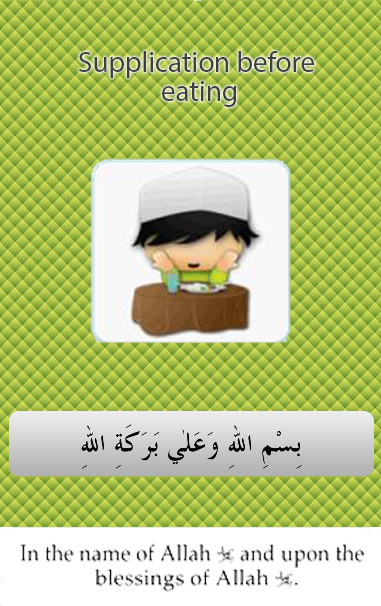
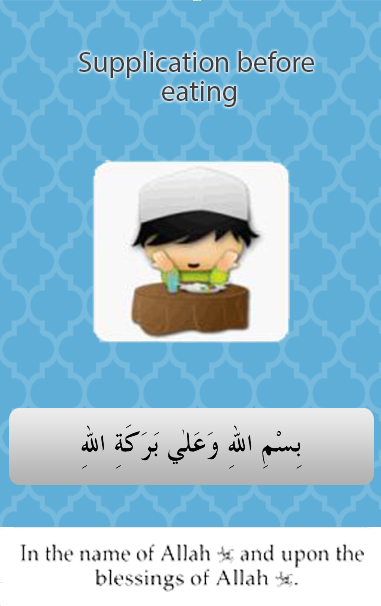
Updated

diff --git a/assets/touchTouch/touchTouch.css b/assets/touchTouch/touchTouch.css
@@ -107,20 +107,19 @@
 /* Arrows */
 
 #close{
-	    border: medium none;
+	       border: medium none;
     text-decoration: none;
-    background: url('close.png') no-repeat scroll 0% 0% transparent;
-    opacity: 0.5;
     cursor: pointer;
     position: absolute;
-    width: 50px;
-    height: 50px;
-    top: 5%;
+    top: 4%;
     margin-top: -13px;
-	right: 38px;
- 	-moz-transition:opacity 0.2s ease;
-	-webkit-transition:opacity 0.2s ease;
-	transition:opacity 0.2s ease;
+    right: 10px;
+    transition: opacity 0.2s ease 0s;
+    color: #fff;
+    font-size: 16pt;
+    background: rgba(0, 0, 0, 0.5);
+    padding: 1px 7px 4px 5px;
+    border-radius: 3px 3px 3px 3px;
 }
 #prevArrow,#nextArrow{
 	border:none;

diff --git a/index.html b/index.html
@@ -20,7 +20,7 @@
 
     <body>
 
-
+<div class="logo"><img src="assets/logo.png"/></div>
         <div class="thumbs">
 	        <a href="assets/img/dua/1.png" style="background-image:url(assets/img/dua-thumb/1.png)" title="1. When waking up"></a>
 	        <a href="assets/img/dua/2.png" style="background-image:url(assets/img/dua-thumb/2.png)" title="2. Before entering the toilet"></a>

diff --git a/assets/touchTouch/touchTouch.jquery.js b/assets/touchTouch/touchTouch.jquery.js
@@ -15,7 +15,7 @@
 		slider = $('<div id="gallerySlider">'),
 		prevArrow = $('<a id="prevArrow"></a>'),
 		nextArrow = $('<a id="nextArrow"></a>'),
-		closeIcon = $('<a id="close"></a>'),
+		closeIcon = $('<a id="close">Home</a>'),
 	
 		overlayVisible = false;
 

diff --git a/assets/css/styles.css b/assets/css/styles.css
@@ -78,7 +78,12 @@ header h2{
 /*----------------------------
 	Thumbnails
 -----------------------------*/
-
+.logo
+{
+text-align:center;
+margin-bottom: -20px;
+margin-top: 40px;
+}
 .thumbs{
 	width:480px;
 	margin:60px auto 35px;
